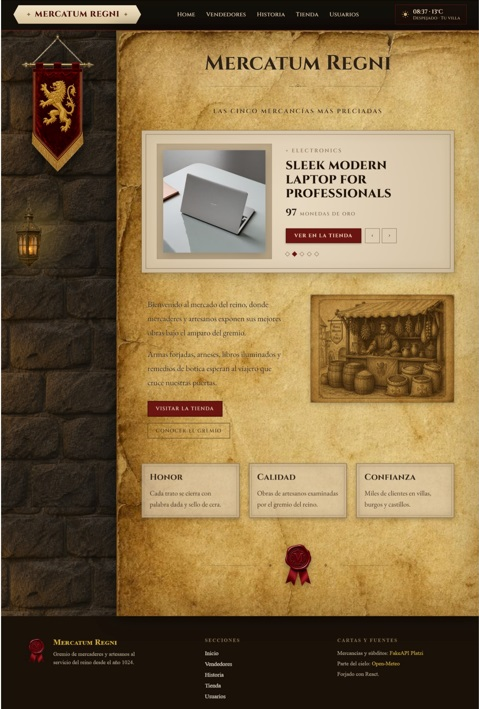
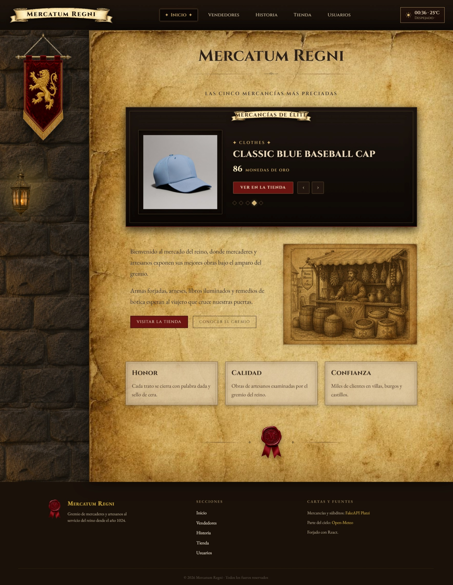
feat: document Supabase migration and Vitest testing suite in README

diff --git a/README.md b/README.md
@@ -3,6 +3,9 @@
 
 ![React](https://img.shields.io/badge/React-19.2-61DAFB?style=for-the-badge&logo=react)
 ![Vite](https://img.shields.io/badge/Vite-8.2-646CFF?style=for-the-badge&logo=vite)
+![Vitest](https://img.shields.io/badge/Vitest-5.0-6E9F18?style=for-the-badge&logo=vitest)
+![Testing Library](https://img.shields.io/badge/Testing%20Library-React-E33332?style=for-the-badge&logo=testing-library)
+![Supabase](https://img.shields.io/badge/Supabase-REST_API-3ECF8E?style=for-the-badge&logo=supabase)
 ![Vercel](https://img.shields.io/badge/Vercel-Deployed-000000?style=for-the-badge&logo=vercel)
 ![Theme](https://img.shields.io/badge/Tema-Medieval-8C1C18?style=for-the-badge)
 
@@ -28,20 +31,21 @@ El proyecto sigue una arquitectura web moderna con **React** y **Vite**, complem
 2. **Estética Medieval Sorteada:** Paleta de colores cálidos, pergaminos, texturas y tipografías clásicas (`Cinzel` y `EB Garamond`).
 3. **Estructura Estándar:** Cada página cuenta con un **Header** unificado, contenido principal (**Main**) y un **Footer**.
 4. **Header Interactivo con Clima:** Widget en tiempo real que consume la API del clima para mostrar la temperatura y el estado del tiempo actual.
-5. **Buenas Prácticas de Git:** Uso riguroso de **Conventional Commits** y **Conventional Branches**.
-6. **Gestión Ágil:** Pesaje de tareas e historias de usuario en **Jira**.
-7. **Despliegue:** Integración continua y hosting en **Vercel**.
+5. **Capa de Servicios y Pruebas Unitarias:** Capa de servicios aislada para la API de Supabase y suite completa de pruebas unitarias automatizadas con **Vitest** y **Testing Library**.
+6. **Buenas Prácticas de Git:** Uso riguroso de **Conventional Commits** y **Conventional Branches**.
+7. **Gestión Ágil:** Pesaje de tareas e historias de usuario en **Jira**.
+8. **Despliegue:** Integración continua y hosting en **Vercel**.
 
 ---
 
 ## ✨ Funcionalidades y Páginas
 
 1. 🏰 **Portal Principal de Bienvenida (Home):**
-   - **Banner Dinámico Interactivo:** Consulta y calcula las 5 mercancías de mayor valor/precio en tiempo real consumiendo la API de productos.
+   - **Banner Dinámico Interactivo:** Consulta y calcula las mercancías de mayor valor/precio en tiempo real consumiendo la API de productos.
    - **Presentación del Reino & Virtudes Gremiales:** Sección descriptiva (*Honor*, *Calidad*, *Confianza*) sobre pergamino con marco ornamental.
 2. 🛍 **Vitrina de Productos:**
    - Catálogo de artículos disponibles en el mercado.
-   - Operaciones **CRUD** para listar, crear, editar y eliminar productos.
+   - Operaciones **CRUD** completas para listar, crear, editar y eliminar productos.
 3. 👥 **Información de los Vendedores:**
    - Sección dedicada al gremio de artesanos con imágenes, nombres y especialidades.
 4. 📖 **Historia de la Tienda:**
@@ -56,13 +60,56 @@ El proyecto sigue una arquitectura web moderna con **React** y **Vite**, complem
 
 - **Core:** React 19, HTML5, JavaScript (ES6+).
 - **Tooling & Bundler:** Vite 8.
+- **Testing:** Vitest 5, JSDOM, React Testing Library, `@testing-library/jest-dom`.
 - **Enrutamiento:** React Router DOM v7.
 - **HTTP Client:** Axios.
+- **Base de Datos & Auth:** Supabase REST API (PostgREST / Row Level Security).
 - **Estilos:** Custom CSS / Vanilla CSS con variables HSL/OKLCH, tipografías de Google Fonts (`Cinzel`, `EB Garamond`), texturas realistas en JPG/PNG y microanimaciones.
 - **APIs Consumidas:**
-  - 🛒 **Productos:** [Platzi Fake Store API - Products](https://fakeapi.platzi.com/)
-  - 👤 **Usuarios:** [Platzi Fake Store API - Users](https://fakeapi.platzi.com/)
+  - 🛒 **Productos & Categorías:** Supabase REST API (`/rest/v1/products`, `/rest/v1/categories`)
+  - 👤 **Usuarios:** Supabase REST API (`/rest/v1/users`)
   - 🌤 **Clima en tiempo real:** [Open-Meteo Weather API](https://open-meteo.com/en/docs)
+
+---
+
+## 🧪 Pruebas Unitarias & Cobertura (Testing)
+
+El proyecto cuenta con una suite completa de unit tests aislados e instantáneos para la capa de servicios (`src/services/`), garantizando la correcta comunicación HTTP, la transformación de datos y el manejo de errores sin depender de conexiones a la red ni a Supabase.
+
+### 🏛 Arquitectura de Pruebas (`src/tests/`)
+- **`src/tests/setupTests.js`**: Configuración global de matchers personalizados con `@testing-library/jest-dom`.
+- **`src/tests/mocks/mockData.js`**: Fixtures centralizadas con datos temáticos del reino (categorías, productos y usuarios).
+- **`src/tests/services/productService.test.js`**: Suite de pruebas para `productService.js`.
+- **`src/tests/services/userService.test.js`**: Suite de pruebas para `userService.js`.
+
+### 🛡 Estrategia y Cobertura de Tests
+1. **Mocking de Axios:** Intercepción aislada de la instancia central Axios (`src/services/api.js`) mediante `vi.mock` (`api.get`, `api.post`, `api.patch`, `api.delete`).
+2. **Normalización de Payloads:** Verificación de conversión automática de campos camelCase a snake_case (por ejemplo `categoryId` a `category_id`) en `createProduct` y `updateProduct`.
+3. **Manejo de Errores y RLS (Row Level Security):** Validación de lanzamiento de excepciones personalizadas ante fallos de red o respuestas vacías (`[]`) provocadas por restricciones de permisos en Supabase.
+4. **Manejo de Cancelación de Peticiones:** Verificación de relanzamiento limpio de errores de aborto (`CanceledError` y `AbortError`).
+5. **Aislamiento Total:** Limpieza de historial de mocks (`vi.clearAllMocks()`) en cada bloque `beforeEach`.
+
+### 🚀 Instrucciones para Ejecutar los Tests
+
+- **Ejecutar tests en modo de observación (Watch Mode):**
+  ```bash
+  npm test
+  ```
+
+- **Ejecutar todos los tests una sola vez (Single Run):**
+  ```bash
+  npx vitest run
+  ```
+
+- **Ejecutar tests con interfaz gráfica interactiva (UI Mode):**
+  ```bash
+  npx vitest --ui
+  ```
+
+- **Generar informe de cobertura de código (Coverage):**
+  ```bash
+  npx vitest run --coverage
+  ```
 
 ---
 
@@ -77,11 +124,31 @@ tienda-medieval/
 │   ├── assets/
 │   │   └── img/           # Imágenes y texturas (stone.jpg, parchment.jpg, banner.png, lantern.png, seal.png, market.jpg)
 │   ├── components/
-│   │   ├── Banner/        # Componente de Banner dinámico (5 productos más caros)
-│   │   └── Header/        # Componente Header (Navegación + Widget del clima)
+│   │   ├── Banner/        # Componente de Banner dinámico (mercancías más valiosas)
+│   │   ├── Header/        # Componente Header (Navegación + Widget del clima)
+│   │   ├── ProductForm/   # Formulario de creación/edición de mercancías
+│   │   ├── ProductModal/  # Modal de gestión de productos
+│   │   ├── SalespersonCard/ # Tarjetas de artesanos y vendedores
+│   │   └── UserModal/     # Modal de gestión de usuarios
 │   ├── data/              # Constantes y datos auxiliares
 │   ├── pages/
-│   │   └── home/          # Página de inicio Mercatum Regni (Home.jsx & Home.css)
+│   │   ├── home/          # Página de inicio Mercatum Regni (Home.jsx & Home.css)
+│   │   ├── products/      # Página de productos (Products.jsx & Products.css)
+│   │   ├── sellers/       # Página de vendedores (Sellers.jsx & Sellers.css)
+│   │   ├── story/         # Página de historia del reino (Story.jsx & Story.css)
+│   │   └── users/         # Panel de gestión de usuarios (Users.jsx & Users.css)
+│   ├── services/
+│   │   ├── api.js         # Instancia Axios centralizada con interceptores JWT
+│   │   ├── productService.js # Servicio de productos y categorías (Supabase REST)
+│   │   ├── userService.js    # Servicio de usuarios (Supabase REST)
+│   │   └── WidgetServices.jsx # Integración API Clima (Open-Meteo)
+│   ├── tests/
+│   │   ├── mocks/
+│   │   │   └── mockData.js   # Fixtures de prueba centralizadas
+│   │   ├── services/
+│   │   │   ├── productService.test.js # Tests unitarios de productos
+│   │   │   └── userService.test.js    # Tests unitarios de usuarios
+│   │   └── setupTests.js     # Setup global de Testing Library / jest-dom
 │   ├── App.jsx            # Enrutador principal de la aplicación
 │   ├── App.css
 │   ├── index.css
@@ -107,7 +174,10 @@ tienda-medieval/
   - Despliegue en Vercel.
 
 - 🏁 **Sprint 2 y Entrega Final (Viernes 4 de Septiembre):**
-  - Desarrollo completo del CRUD de Productos y Usuarios.
+  - Desarrollo completo del CRUD de Productos y Usuarios integrado a Supabase REST API.
+  - Implementación de la Capa de Servicios (`api.js`, `productService.js`, `userService.js`).
+  - Configuración del Entorno de Pruebas con Vitest, JSDOM y React Testing Library.
+  - Desarrollo de suites de pruebas unitarias con interceptores de Axios y validación de RLS.
   - Finalización de las páginas de Vendedores e Historia.
   - Auditoría de Clean Code y validación de entregables.
 
@@ -133,7 +203,12 @@ Para ejecutar el proyecto en tu entorno local, sigue estos pasos:
    npm run dev
    ```
 
-4. **Compilar para producción:**
+4. **Ejecutar la suite de pruebas:**
+   ```bash
+   npm test
+   ```
+
+5. **Compilar para producción:**
    ```bash
    npm run build
    ```
@@ -142,9 +217,9 @@ Para ejecutar el proyecto en tu entorno local, sigue estos pasos:
 
 ## 🤝 Convenciones y Calidad de Código
 
-- **Conventional Commits:** `feature:`, `fix:`, `docs:`, `style:`.
-- **Conventional Branches:** `feature/nombre-funcionalidad`, `fix/nombre-bug`.
-- **Clean Code:** Componentes modulares, reutilizables y separación clara de responsabilidades.
+- **Conventional Commits:** `feature:`, `fix:`, `docs:`, `style:`, `test:`.
+- **Conventional Branches:** `feature/nombre-funcionalidad`, `fix/nombre-bug`, `test/nombre-test`.
+- **Clean Code & Unit Testing:** Componentes modulares, separación de responsabilidades y tests unitarios aislados.
 
 ---
 
